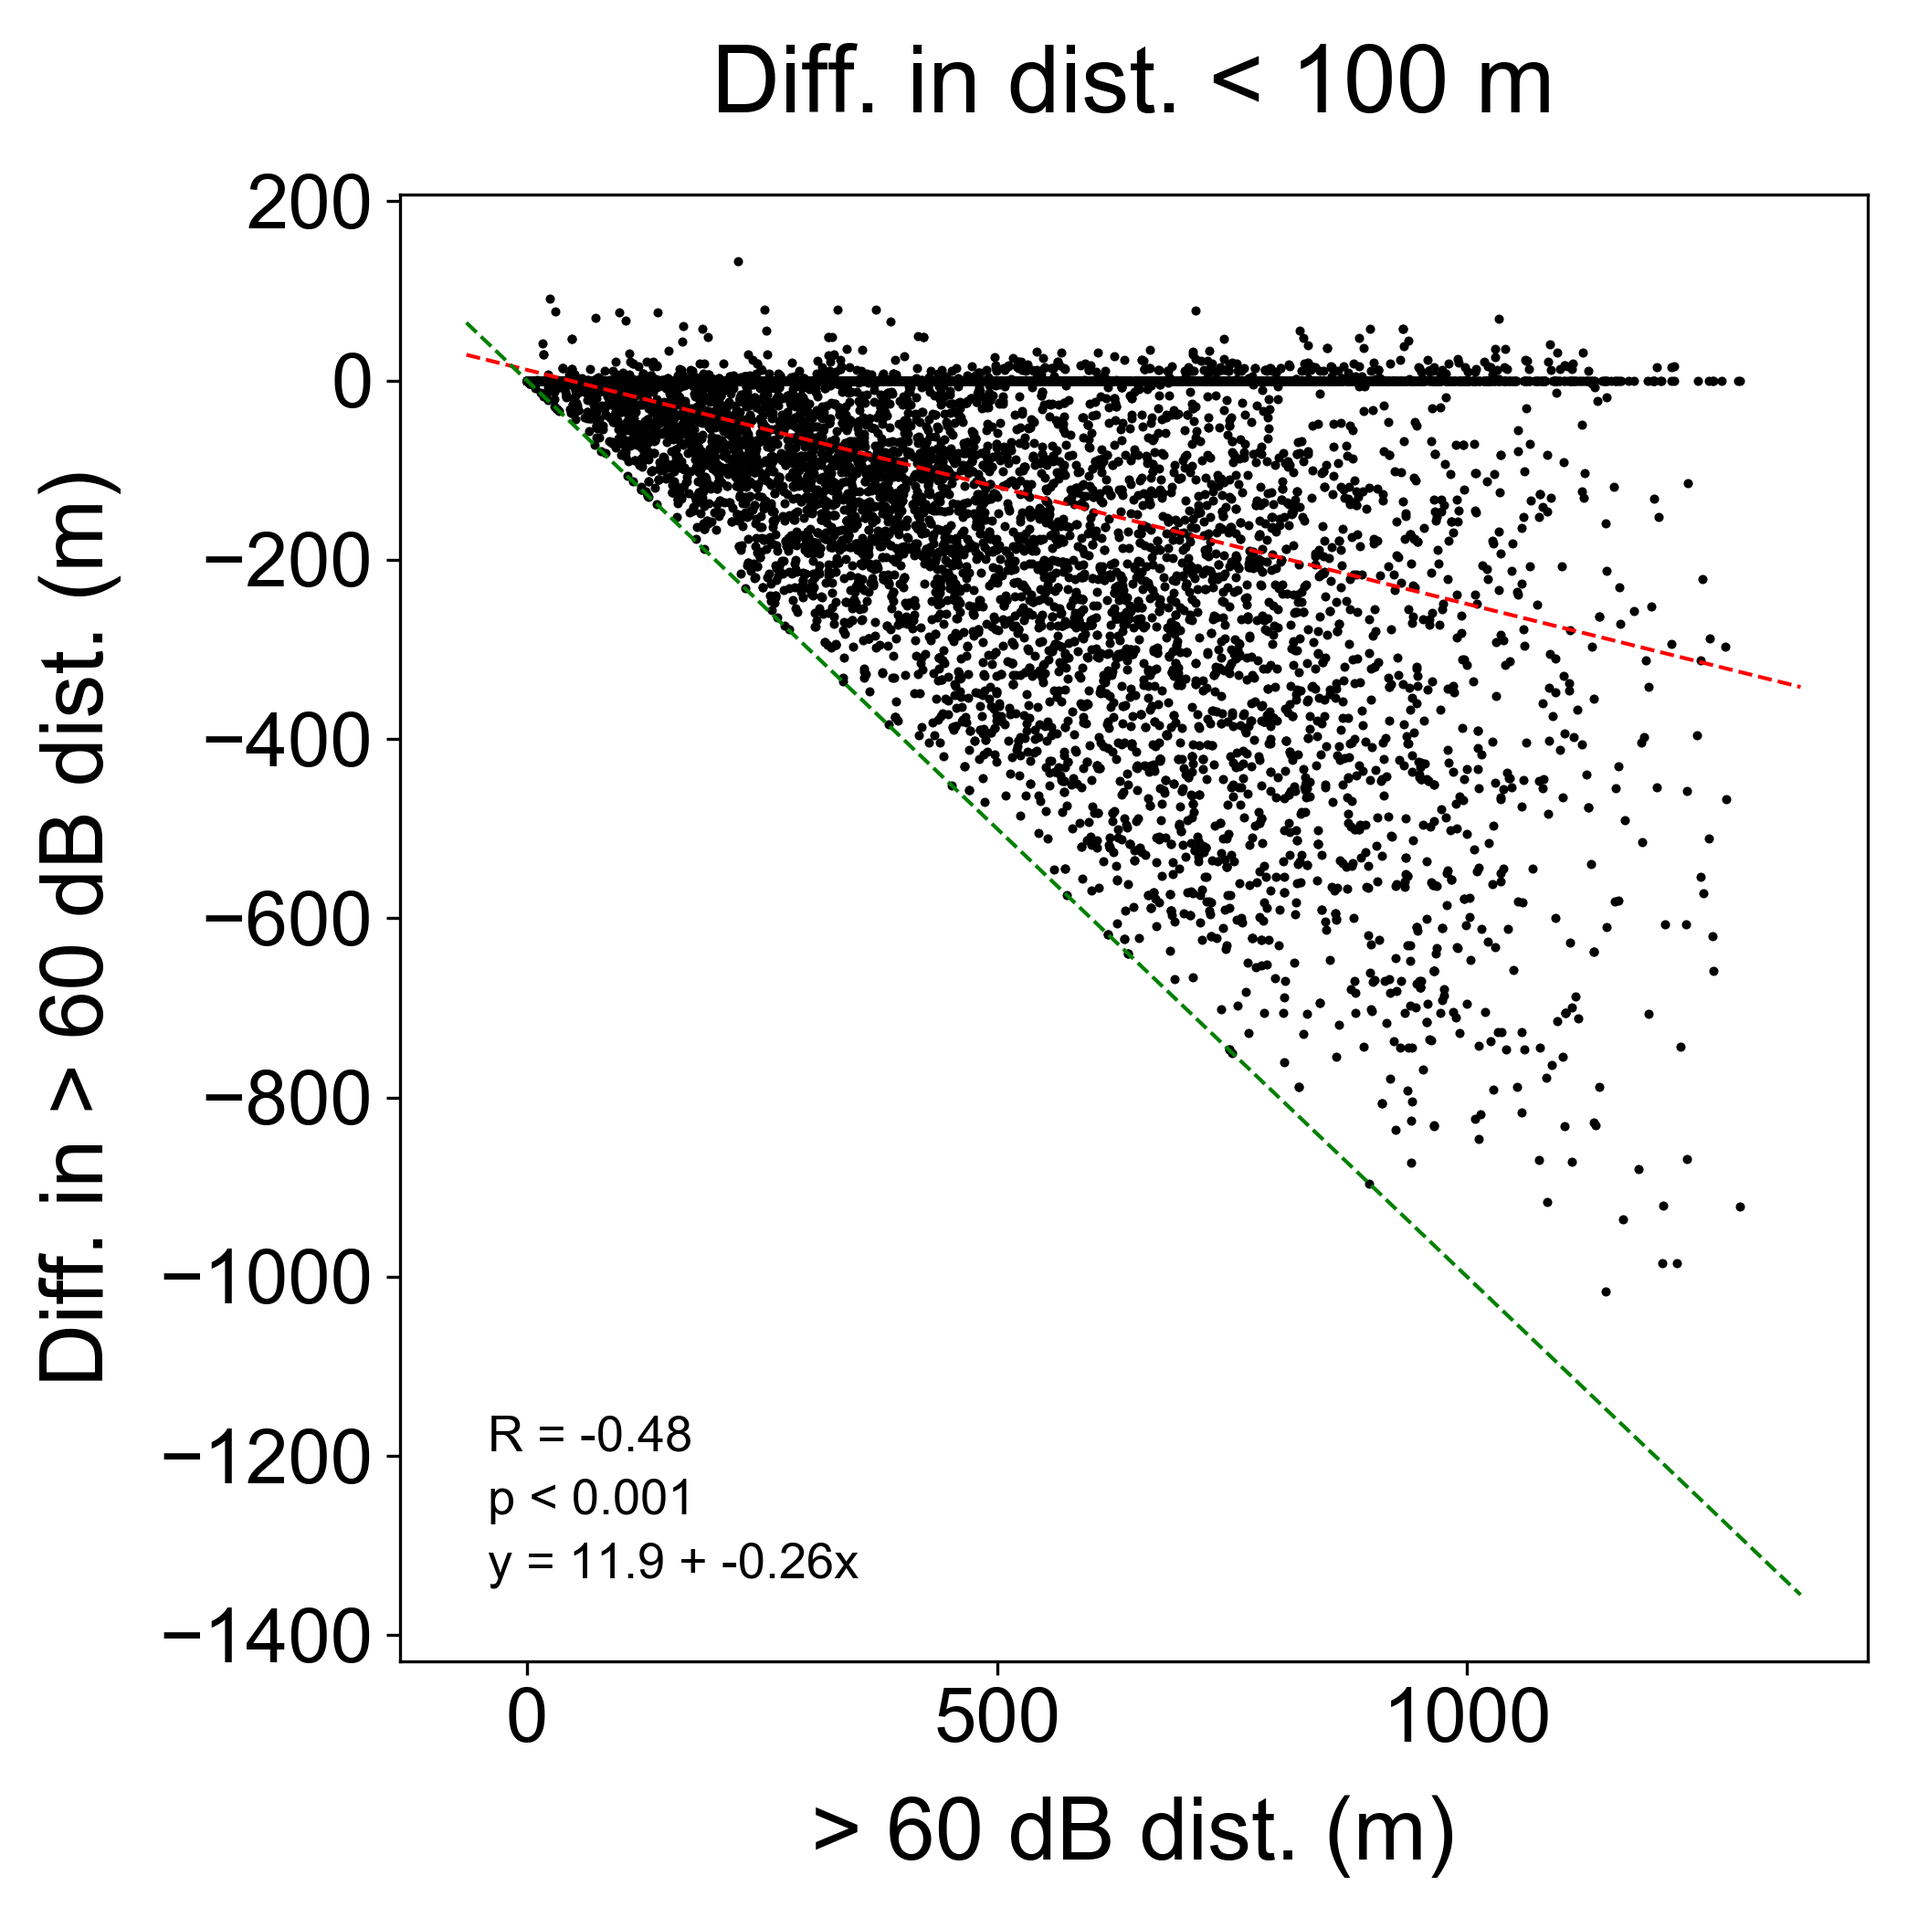
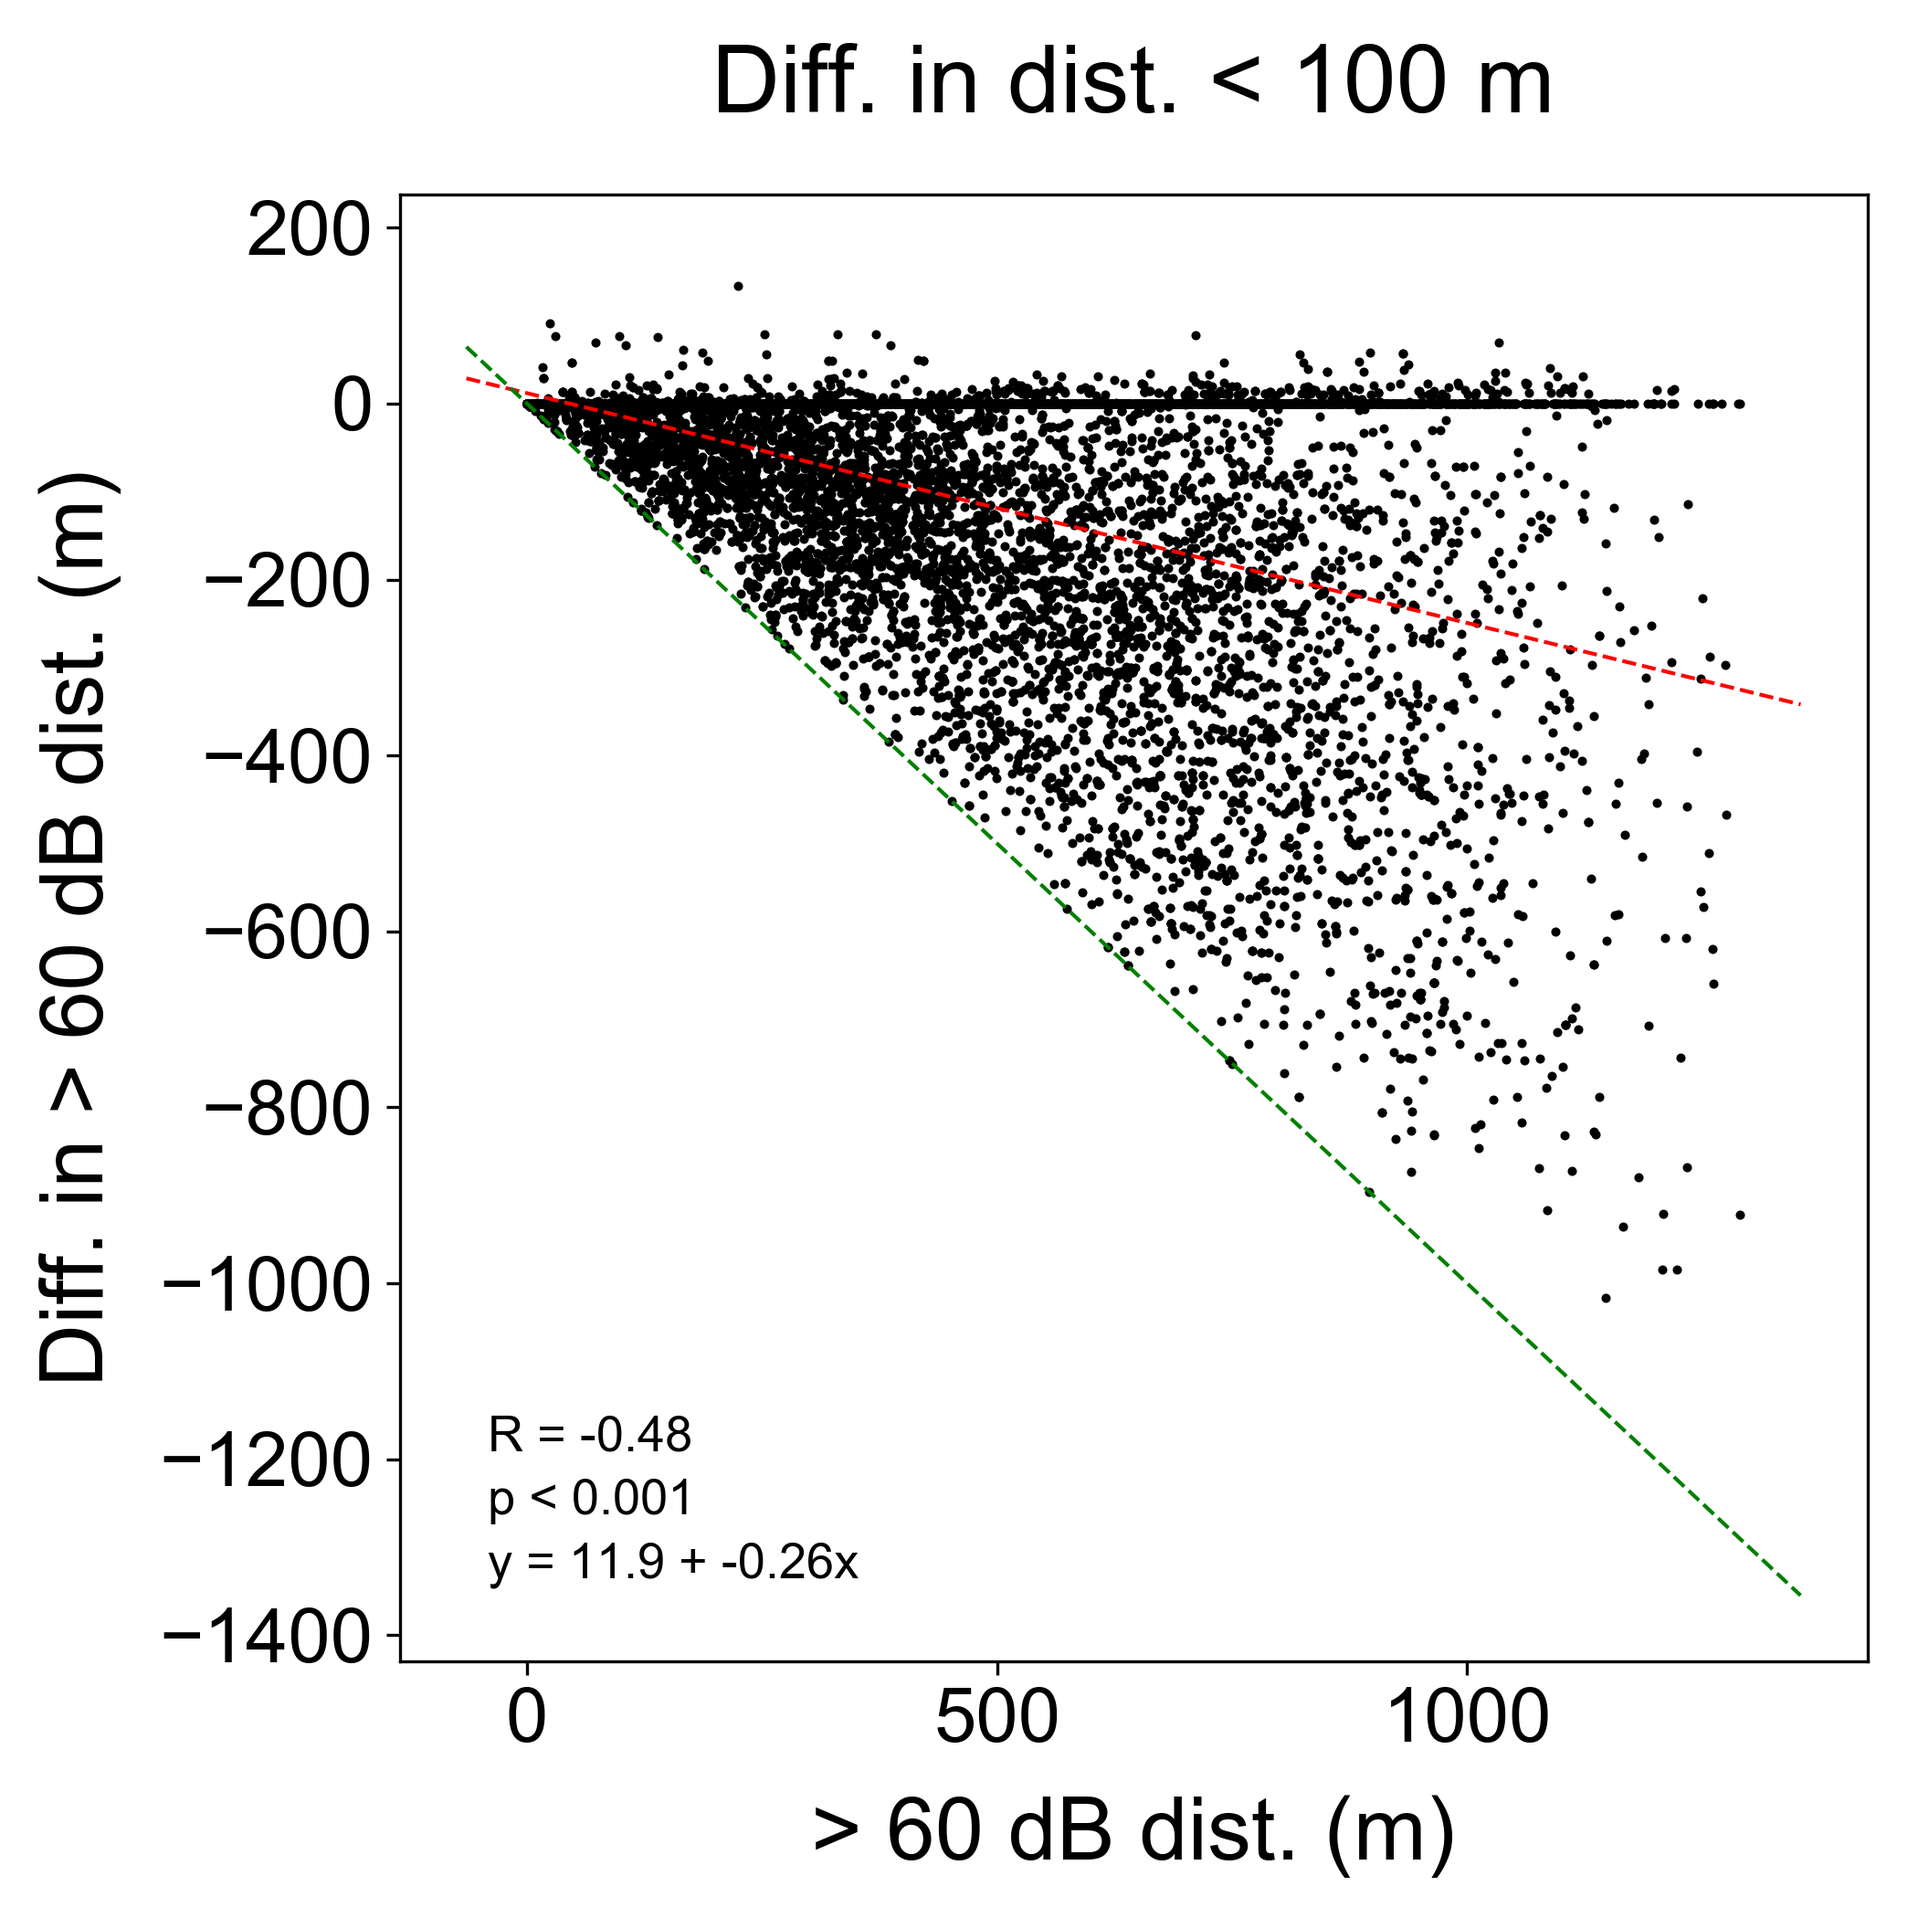
Update plots

diff --git a/src/scripts_analysis/quiet_path_stats.py b/src/scripts_analysis/quiet_path_stats.py
@@ -89,6 +89,7 @@ for key, group in grouped:
     # collect
     sp_stats = {'od_id': key, 'length': sp['length'], 'mdB': sp['mdB'], 'nei': sp['nei'], 'nei_norm': sp['nei_norm'], 'util': sp['util'], '60dBl': sp['60dBl'], '65dBl': sp['65dBl'], '60dBr': sp['60dBr'], '65dBr': sp['65dBr'] }
     qp_stats = pstats.get_best_quiet_paths_of_max_len_diffs(od_id=key, df=qps, sp=sp, max_len_diffs=[30, 100, 150, 200, 300, 500])
+    qp_stats['count_qp'] = len(qps)
     all_od_stats.append({ **sp_stats, **qp_stats })
     # print('best_qp', od_stats)
     # print(qps[['path_id', 'len_sp', 'length', 'len_diff']])
@@ -99,6 +100,9 @@ print('od stats count:', len(od_stats_df))
 # od stats count: 30097
 od_stats_df.head()
 
+#%%
+od_stats_df['length_km'] = [length / 1000.0 for length in od_stats_df['length']]
+
 #%% select subset of od stats based on path length ranges
 # print(od_stats_df.columns)
 od_stats_len_300_600 = od_stats_df.query('length > 300 and length < 600')
@@ -107,6 +111,22 @@ od_stats_len_700_1300 = od_stats_df.query('length > 700 and length < 1300')
 #%% set quiet path names
 qps = {'qp100': 'Diff. in dist. < 100 m', 'qp200': 'Diff. in dist. < 200 m', 'qp300': 'Diff. in dist. < 300 m'}
 
+#%% path subsets
+od_stats_p0_3000m = od_stats_df[(od_stats_df['length'] < 3000)]
+od_stats_mdB_60_70 = od_stats_df[(od_stats_df['mdB'] > 60) & (od_stats_df['mdB'] < 70) & (od_stats_df['length'] < 3000)]
+
+#%% qp counts regression
+fig = plots.scatterplot(od_stats_p0_3000m, 'length_km', 'count_qp', linreg=True, xlabel='Shortest path length (km)', ylabel='Quiet path count',  large_text=True, yvaluemap=(-9999, 0), point_s=1)
+fig.savefig('plots/quiet_path_plots/len-qp_count_linreg.png', format='png', dpi=300)
+
+#%% OD distance - mdB diff qp 200
+fig = plots.scatterplot(od_stats_mdB_60_70, 'length_km', 'mdB_diff_qp200', linreg=True, xlabel='Shortest path length (km)', ylabel='Diff. in mean dB',  title='Diff. in dist. < 200 m', large_text=True, yvaluemap=(-9999, 0), point_s=1)
+fig.savefig('plots/quiet_path_plots/len-mdB_diff_qp200.png', format='png', dpi=300)
+
+#%% qp count boxplots
+fig = plots.boxplots_qp_counts(od_stats_p0_3000m, xlabel='Shortest path length (km)', ylabel='Quiet path count', large_text=True)
+fig.savefig('plots/quiet_path_plots/len-qp_count_boxplot.png', format='png', dpi=300)
+
 #%% mdB - paths 300-600 m
 for qp_name in qps.keys():
     fig = plots.scatterplot(od_stats_len_300_600, 'mdB', 'mdB_diff_'+ qp_name, linreg=True, yrange=(0, -20), xlabel='Mean dB', ylabel='Diff. in mean dB', title=qps[qp_name], large_text=True, yvaluemap=(-9999, 0), point_s=2)
@@ -114,12 +134,12 @@ for qp_name in qps.keys():
 
 #%% 60 dBl - paths 300-600 m
 for qp_name in qps.keys():
-    fig = plots.scatterplot(od_stats_len_300_600, '60dBl', '60dB_diff_'+ qp_name, linreg=True, xlabel='> 60 dB dist. (m)', ylabel='Diff. in > 60 dB dist. (m)', title=qps[qp_name], large_text=True, yvaluemap=(-9999, 0), line='-xy', point_s=2)
+    fig = plots.scatterplot(od_stats_len_300_600, '60dBl', '60dB_diff_'+ qp_name, linreg=True, xlabel='> 60 dB dist. (m)', ylabel='Diff. in > 60 dB dist. (m)', title=qps[qp_name], large_text=True, yvaluemap=(-9999, 0), ylims=(133, -650), line='-xy', point_s=2)
     fig.savefig('plots/quiet_path_plots/p300_600_60dBl_'+ qp_name +'.png', format='png', dpi=300)
 
 #%% 65 dBl - paths 300-600 m
 for qp_name in qps.keys():
-    fig = plots.scatterplot(od_stats_len_300_600, '65dBl', '65dB_diff_'+ qp_name, linreg=True, xlabel='> 65 dB dist. (m)', ylabel='Diff. in > 65 dB dist. (m)', title=qps[qp_name], large_text=True, yvaluemap=(-9999, 0), line='-xy', point_s=2)
+    fig = plots.scatterplot(od_stats_len_300_600, '65dBl', '65dB_diff_'+ qp_name, linreg=True, xlabel='> 65 dB dist. (m)', ylabel='Diff. in > 65 dB dist. (m)', title=qps[qp_name], large_text=True, yvaluemap=(-9999, 0), ylims=(133, -650), line='-xy', point_s=2)
     fig.savefig('plots/quiet_path_plots/p300_600_65dBl_'+ qp_name +'.png', format='png', dpi=300)
 
 #%% nei - paths 300-600 m
@@ -134,12 +154,12 @@ for qp_name in qps.keys():
 
 #%% 60 dBl - paths 700-1300 m
 for qp_name in qps.keys():
-    fig = plots.scatterplot(od_stats_len_700_1300, '60dBl', '60dB_diff_'+ qp_name, linreg=True, xlabel='> 60 dB dist. (m)', ylabel='Diff. in > 60 dB dist. (m)', title=qps[qp_name], large_text=True, yvaluemap=(-9999, 0), line='-xy', point_s=2)
+    fig = plots.scatterplot(od_stats_len_700_1300, '60dBl', '60dB_diff_'+ qp_name, linreg=True, xlabel='> 60 dB dist. (m)', ylabel='Diff. in > 60 dB dist. (m)', title=qps[qp_name], large_text=True, yvaluemap=(-9999, 0), ylims=(238, -1430), line='-xy', point_s=2)
     fig.savefig('plots/quiet_path_plots/p700_1300_60dBl_'+ qp_name +'.png', format='png', dpi=300)
 
 #%% 65 dBl - paths 700-1300 m
 for qp_name in qps.keys():
-    fig = plots.scatterplot(od_stats_len_700_1300, '65dBl', '65dB_diff_'+ qp_name, linreg=True, xlabel='> 65 dB dist. (m)', ylabel='Diff. in > 65 dB dist. (m)', title=qps[qp_name], large_text=True, yvaluemap=(-9999, 0), line='-xy', point_s=2)
+    fig = plots.scatterplot(od_stats_len_700_1300, '65dBl', '65dB_diff_'+ qp_name, linreg=True, xlabel='> 65 dB dist. (m)', ylabel='Diff. in > 65 dB dist. (m)', title=qps[qp_name], large_text=True, yvaluemap=(-9999, 0), ylims=(238, -1430), line='-xy', point_s=2)
     fig.savefig('plots/quiet_path_plots/p700_1300_65dBl_'+ qp_name +'.png', format='png', dpi=300)
 
 #%% nei - paths 700-1300 m

diff --git a/src/utils/plots.py b/src/utils/plots.py
@@ -83,11 +83,10 @@ def plot_exposure_times(exp_times):
 
 def abline(x_vals, slope, intercept, color='green'):
     '''Plot a line from slope and intercept'''
-    print(x_vals)
     y_vals = intercept + slope * x_vals
     plt.plot(x_vals, y_vals, color=color, linewidth=1, linestyle='dashed')
 
-def scatterplot(data_df, xcol=None, ycol=None, linreg=False, yrange=None, yignore=None, yvaluemap=None, point_s=3, line=None, xlabel=None, ylabel=None, title=None, large_text=False):
+def scatterplot(data_df, xcol=None, ycol=None, linreg=False, yrange=None, ylims=None, yignore=None, yvaluemap=None, point_s=3, line=None, xlabel=None, ylabel=None, title=None, large_text=False):
     # filter out null values (e.g. -9999)
     if (yignore is not None):
         # df = data_df.query(f'''{ycol} != {yignore}''')
@@ -146,6 +145,12 @@ def scatterplot(data_df, xcol=None, ycol=None, linreg=False, yrange=None, yignor
         if (line == 'y0'):
             abline(x_vals, 0, 0)
 
+    y_lims = np.array(ax.get_ylim())
+    print('y_lims:', y_lims)
+
+    if (ylims is not None):
+        ax.set_ylim(top=ylims[0], bottom=ylims[1])
+
     label_font_size = 18 if large_text == False else 23
     tick_font_size = 15 if large_text == False else 20
 
@@ -160,6 +165,44 @@ def scatterplot(data_df, xcol=None, ycol=None, linreg=False, yrange=None, yignor
     ax.yaxis.labelpad = 10
 
     fig.tight_layout()
+    return fig
+
+def boxplots_qp_counts(od_stats_df, large_text = True, xlabel=None, ylabel=None, title=None):
+
+    qp_counts = range(0, 9)
+
+    qp_count_groups = []
+    for i in qp_counts:
+        ed_stats_qp_i = od_stats_df[od_stats_df['count_qp'] == i]
+        qp_count_groups.append(ed_stats_qp_i['length_km'])
+
+    # Create a figure instance
+    fig = plt.figure(1, figsize=(9, 8))
+
+    # Create an axes instance
+    ax = fig.add_subplot(111)
+
+    # Create the boxplot
+    ax.boxplot(qp_count_groups, labels=qp_counts, vert=False)
+
+    ax.set_ylabel(ylabel if ylabel is not None else '')
+    ax.set_xlabel(xlabel if xlabel is not None else '')
+
+    label_font_size = 18 if large_text == False else 23
+    tick_font_size = 15 if large_text == False else 18
+
+    if (title is not None):
+        ax.set_title(title, fontsize=25, y = 1.04)
+
+    ax.xaxis.label.set_size(label_font_size)
+    ax.yaxis.label.set_size(label_font_size)
+    ax.tick_params(axis='both', which='major', labelsize=tick_font_size)
+
+    ax.xaxis.labelpad = 10
+    ax.yaxis.labelpad = 10
+
+    fig.tight_layout()
+
     return fig
 
 def boxplot(data_df, col=None, valignore=None, label=None):

diff --git a/src/utils/path_stats.py b/src/utils/path_stats.py
@@ -168,7 +168,7 @@ def get_best_quiet_paths_of_max_len_diffs(od_id=None, df=None, sp=None, max_len_
         found_qps = len(qps) > 0
         qps = qps.sort_values('len_diff', ascending=False) if found_qps == True else None
         qp = qps.to_dict(orient='records')[0] if found_qps == True else {}
-        # od_qp_stats['len_qp'+str(max_len)] = qp['length'] if found_qps == True else -9999
+        qp_stats['count_qp'+str(max_len)] = len(qps) if found_qps == True else 0
         qp_stats['len_diff_qp'+str(max_len)] = qp['len_diff'] if found_qps == True else -9999
         qp_stats['len_diff_r_qp'+str(max_len)] = qp['len_diff_r'] if found_qps == True else -9999
         qp_stats['nei_qp'+str(max_len)] = qp['nei_norm'] if found_qps == True else -9999
